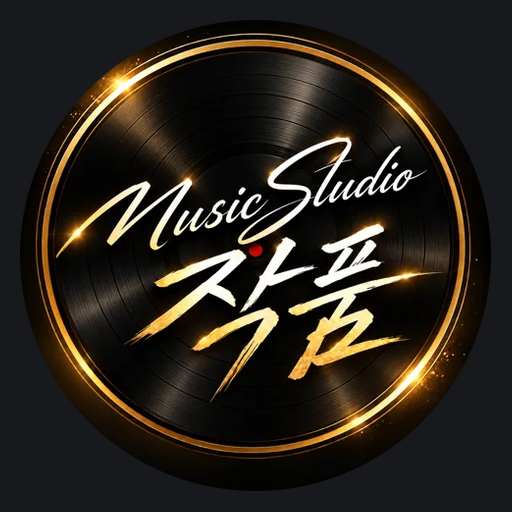
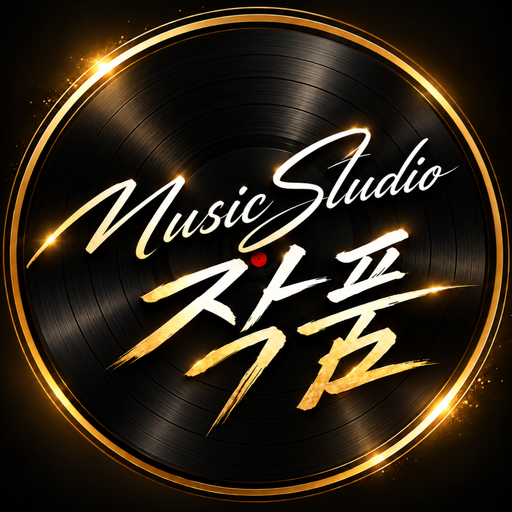
앱 아이콘·로고를 새 작품 로고로 교체 — 사용자 10/31 23:38
Claude-Session: https://claude.ai/code/session_01CKyocuKaAchTUKha43UDZZ

diff --git a/teacher/index.html b/teacher/index.html
@@ -5,7 +5,7 @@
 <meta name="viewport" content="width=device-width, initial-scale=1">
 <title>작품 보컬노트 · 선생님</title>
 <link rel="manifest" href="manifest.webmanifest">
-<link rel="icon" href="../brand/app-192.png">
+<link rel="icon" href="../brand/app-192.png?v=20261031b">
 <meta name="theme-color" content="#17191d">
 <script src="https://accounts.google.com/gsi/client" async></script>
 <style>
@@ -353,7 +353,7 @@
 </head>
 <body>
 <link rel="stylesheet" href="https://fonts.googleapis.com/css2?family=Nanum+Myeongjo:wght@700&display=swap">
-<script src="../brand.js?v=20261030-1700"></script>
+<script src="../brand.js?v=20261031-2339"></script>
 <script>try { Brand.splash("teacher"); } catch {}</script>
 <main>
   <header><button id="btnBack" class="ghost small hidden">← 뒤로</button><h1><span class="brMark" aria-hidden="true"></span>작품 보컬노트</h1><button id="btnUi" class="ghost small hidden" style="display:none" type="button" title="화면 방식 바꾸기">V1 화면</button></header>
@@ -5319,7 +5319,7 @@ $("btnShSave").onclick = saveShared;
 $("btnShCancel").onclick = () => { history.replaceState(null, "", "./"); renderList(); };
 if ("serviceWorker" in navigator) navigator.serviceWorker.register("./sw.js").catch(() => {});
 // 새 버전 알림: 휴대폰이 예전 화면을 기억하고 있으면(최대 10분 캐시) 위에 띠로 알려 주고 눌러서 새로고침
-const BUILD = "2026-10-31-1548-sheetback";
+const BUILD = "2026-10-31-2339-logo";
 async function checkBuild() {
   try {
     const t = await (await fetch(location.pathname + "?v=" + Date.now(), { cache: "no-store" })).text();

diff --git a/student/index.html b/student/index.html
@@ -5,8 +5,8 @@
 <meta name="viewport" content="width=device-width, initial-scale=1">
 <title>내 보컬 노트 · 작품</title>
 <meta name="theme-color" content="#17191d">
-<link rel="icon" href="../brand/app-192.png">
-<link rel="apple-touch-icon" href="../brand/app-512.png">
+<link rel="icon" href="../brand/app-192.png?v=20261031b">
+<link rel="apple-touch-icon" href="../brand/app-512.png?v=20261031b">
 <script src="https://accounts.google.com/gsi/client" async></script>
 <style>
   :root { color-scheme:dark; --bg:#17191d; --fg:#eceff3; --muted:#a9b1bc; --card:#22262c; --line:#363c45; --accent:#9cc3ff; --on-accent:#10141a; --good:#7fd99a; }
@@ -137,7 +137,7 @@
 </head>
 <body>
 <link rel="stylesheet" href="https://fonts.googleapis.com/css2?family=Nanum+Myeongjo:wght@700&display=swap">
-<script src="../brand.js?v=20261030-1700"></script>
+<script src="../brand.js?v=20261031-2339"></script>
 <script>try { Brand.splash("student"); } catch {}</script>
 <main>
   <h1><button type="button" class="fzBtn" id="fzBtn" aria-label="글씨 크기 바꾸기"><small>가</small><b>가</b></button><span class="brMark" aria-hidden="true"></span>내 보컬 노트 <span class="muted" style="font-size:.85rem">뮤직스튜디오 작품</span></h1>

diff --git a/brand.js b/brand.js
@@ -2,7 +2,7 @@
 // ① 첫 실행(하루 한 번, 1.2초, 누르면 바로 닫힘) ② 1초 넘게 기다릴 때 작은 로고 ③ 화면 바뀔 때 금색 가는 줄(0.3초)
 (function (G) {
   const COPY = "가장 아름다운 당신의 오늘을<br>‘<b>작품</b>’으로..", BASE = (document.currentScript?.src || "").replace(/brand\.js.*$/, "");
-  const LOGO = BASE + "brand/logo.webp", SMALL = BASE + "brand/logo-96.webp";
+  const LOGO = BASE + "brand/logo.webp?v=20261031b", SMALL = BASE + "brand/logo-96.webp?v=20261031b";
   const css = `#brSplash{position:fixed;inset:0;z-index:10000;display:flex;flex-direction:column;align-items:center;justify-content:center;background:radial-gradient(circle at 50% 42%,#2a1f0c 0,#0b0b0c 62%);transition:opacity .45s ease}
 #brSplash.out{opacity:0;pointer-events:none}#brSplash .lg{position:relative;width:min(62vw,260px);aspect-ratio:1;border-radius:50%;background:url(${LOGO}) center/cover;box-shadow:0 0 60px rgba(255,190,90,.25);animation:brIn .7s cubic-bezier(.3,.7,.2,1)}
 #brSplash .lg::after{content:"";position:absolute;inset:-8px;border-radius:50%;border:2px solid transparent;border-top-color:#ffd27a;animation:brSpin 1.2s linear infinite}

diff --git a/index.html b/index.html
@@ -5,7 +5,7 @@
 <meta name="viewport" content="width=device-width, initial-scale=1">
 <title>보컬노트 폰 실험</title>
 <link rel="manifest" href="manifest.webmanifest">
-<link rel="icon" href="brand/app-192.png">
+<link rel="icon" href="brand/app-192.png?v=20261031b">
 <meta name="theme-color" content="#2b4c7e">
 <style>
   :root { --bg:#ffffff; --fg:#1b1f24; --muted:#5b6470; --card:#f4f6f9; --line:#d5dbe3; --accent:#2b4c7e; --ok:#1f7a3a; --bad:#b42318; --warn-bg:#fff6dd; --warn-line:#e8cf86; }

diff --git a/teacher-v1/index.html b/teacher-v1/index.html
@@ -5,7 +5,7 @@
 <meta name="viewport" content="width=device-width, initial-scale=1">
 <title>작품 보컬노트 · 선생님 (V1 보관본)</title>
 <link rel="manifest" href="manifest.webmanifest">
-<link rel="icon" href="../brand/app-192.png">
+<link rel="icon" href="../brand/app-192.png?v=20261031b">
 <meta name="theme-color" content="#17191d">
 <script src="https://accounts.google.com/gsi/client" async></script>
 <style>
